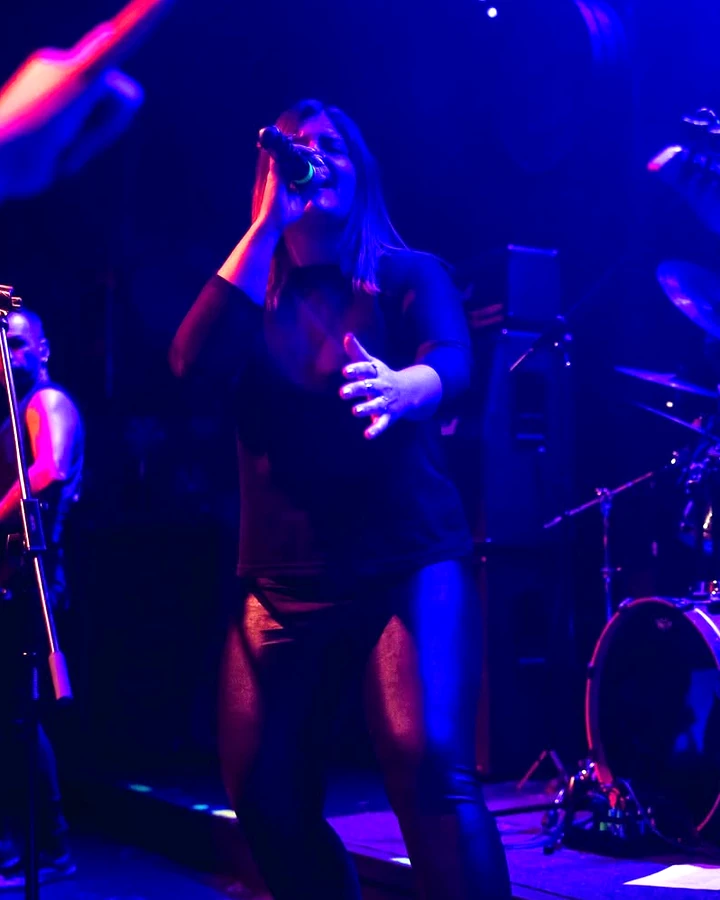
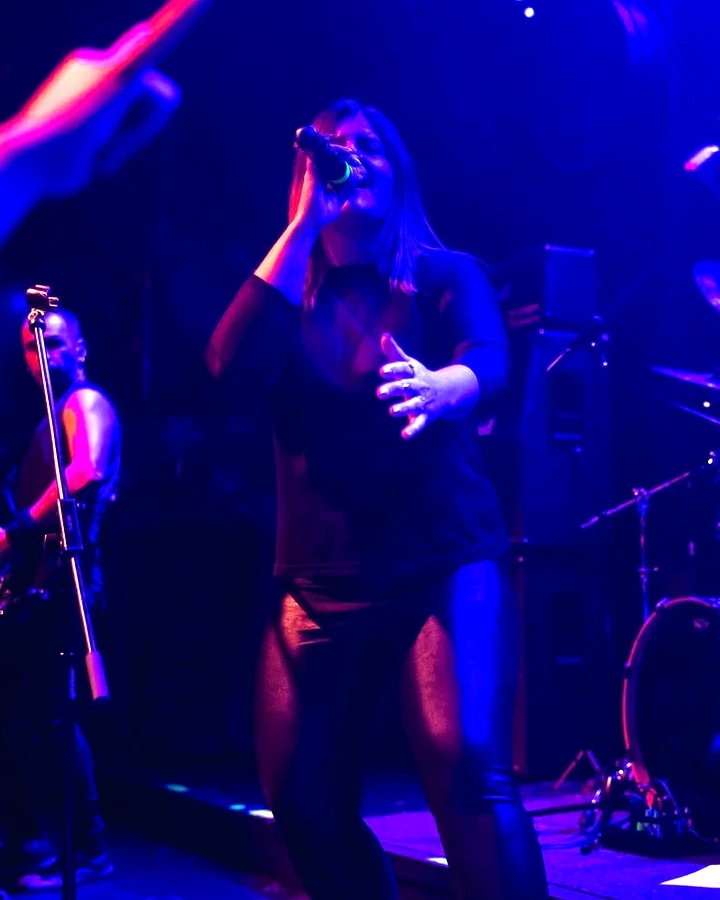
Add files via upload

diff --git a/en.html b/en.html
@@ -1277,6 +1277,19 @@
     }
   }
 
+
+  /* extra visibility only for Lily + Stelios */
+  .member-card.member-focus .member-photo img{
+    opacity:.78;
+    filter:grayscale(0) saturate(1.02) brightness(1.08) contrast(1.05);
+  }
+
+  .member-card.member-focus:hover .member-photo img{
+    opacity:.90;
+    filter:grayscale(0) saturate(1.05) brightness(1.13) contrast(1.05);
+    transform:scale(1.015);
+  }
+
 </style>
 
 <script type="application/ld+json">
@@ -1586,7 +1599,7 @@
         </div>
       </div>
 
-      <div class="member-card">
+      <div class="member-card member-focus member-lily">
         <div class="member-copy">
           <div class="member-name">Lily Papa</div>
           <div class="member-name-gr">Λίλυ Παπά</div>
@@ -1634,7 +1647,7 @@
         </div>
       </div>
 
-      <div class="member-card">
+      <div class="member-card member-focus member-stelios">
         <div class="member-copy">
           <div class="member-name">Stelios Sioulas</div>
           <div class="member-name-gr">Στέλιος Σιούλας</div>

diff --git a/index.html b/index.html
@@ -1277,6 +1277,19 @@
     }
   }
 
+
+  /* extra visibility only for Lily + Stelios */
+  .member-card.member-focus .member-photo img{
+    opacity:.78;
+    filter:grayscale(0) saturate(1.02) brightness(1.08) contrast(1.05);
+  }
+
+  .member-card.member-focus:hover .member-photo img{
+    opacity:.90;
+    filter:grayscale(0) saturate(1.05) brightness(1.13) contrast(1.05);
+    transform:scale(1.015);
+  }
+
 </style>
 
 <script type="application/ld+json">
@@ -1586,7 +1599,7 @@
         </div>
       </div>
 
-      <div class="member-card">
+      <div class="member-card member-focus member-lily">
         <div class="member-copy">
           <div class="member-name">Lily Papa</div>
           <div class="member-name-gr">Λίλυ Παπά</div>
@@ -1634,7 +1647,7 @@
         </div>
       </div>
 
-      <div class="member-card">
+      <div class="member-card member-focus member-stelios">
         <div class="member-copy">
           <div class="member-name">Stelios Sioulas</div>
           <div class="member-name-gr">Στέλιος Σιούλας</div>
